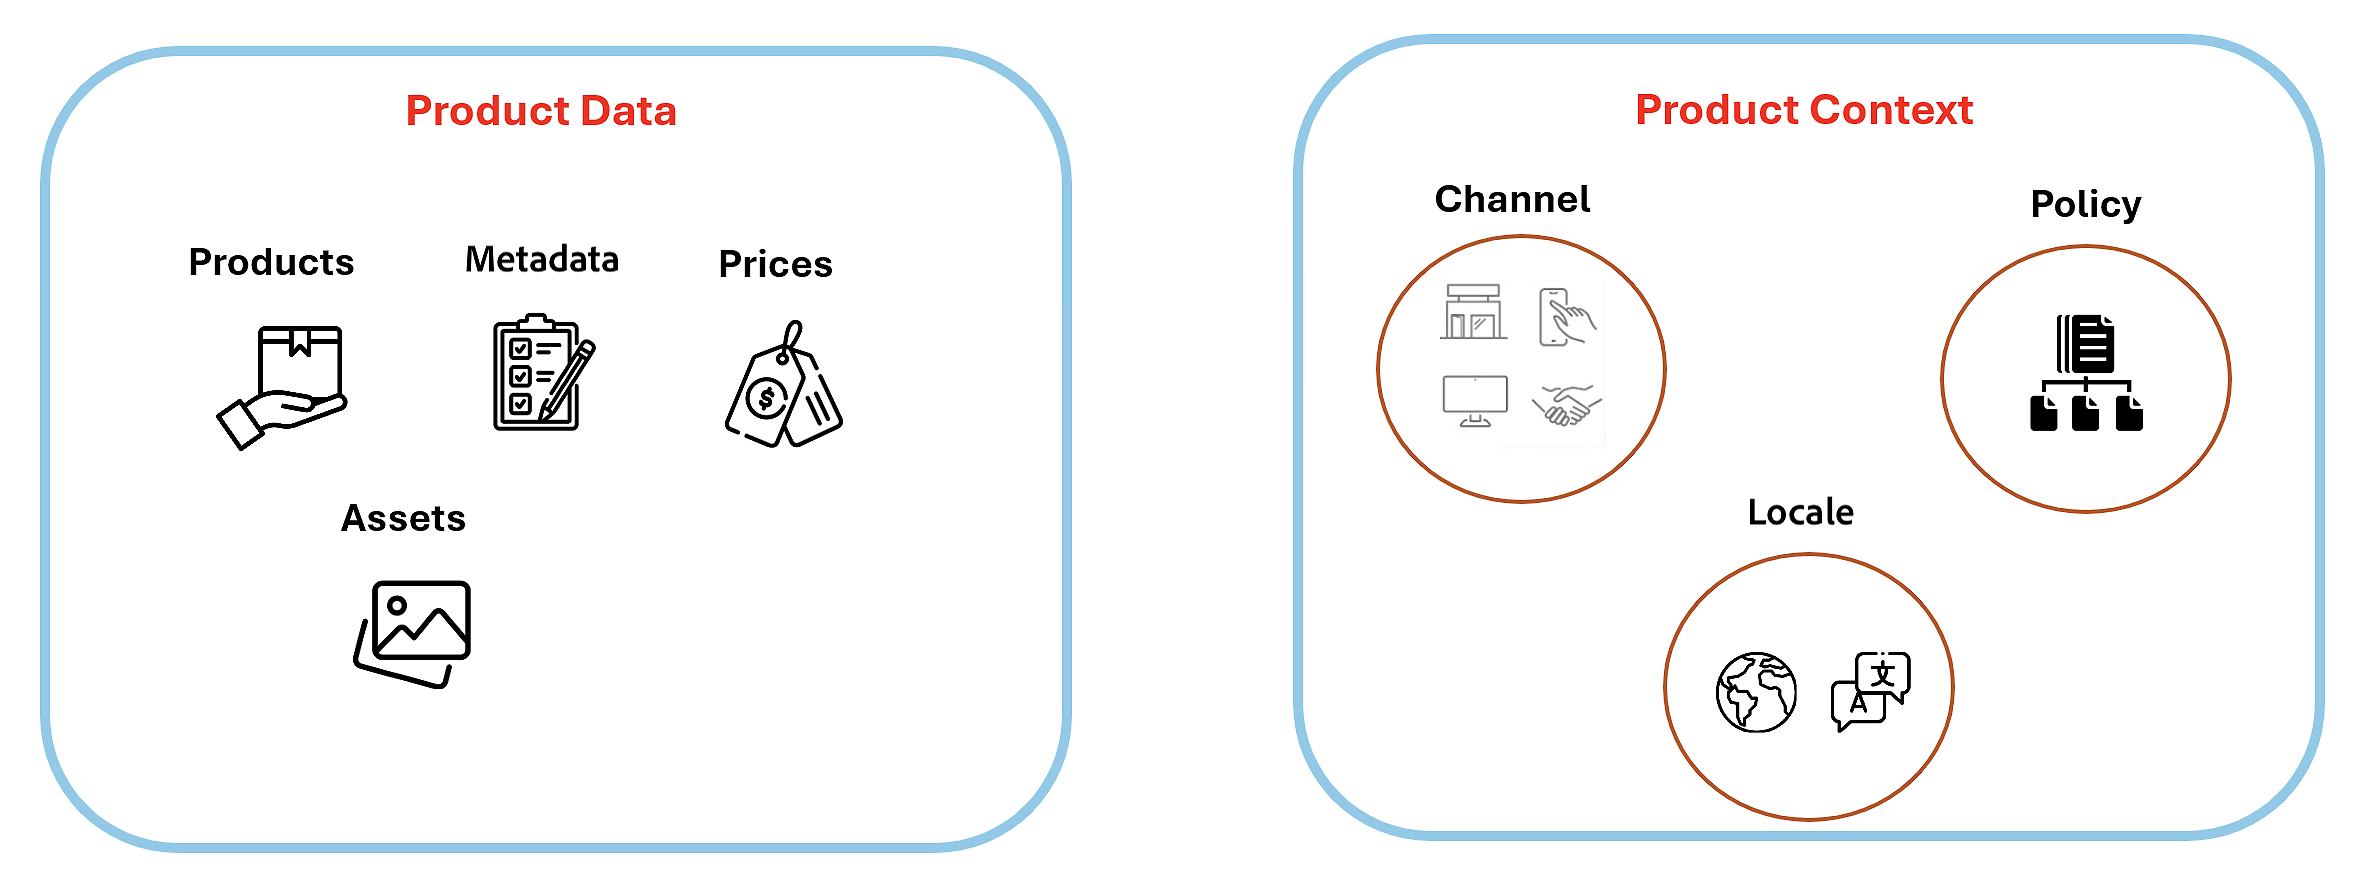
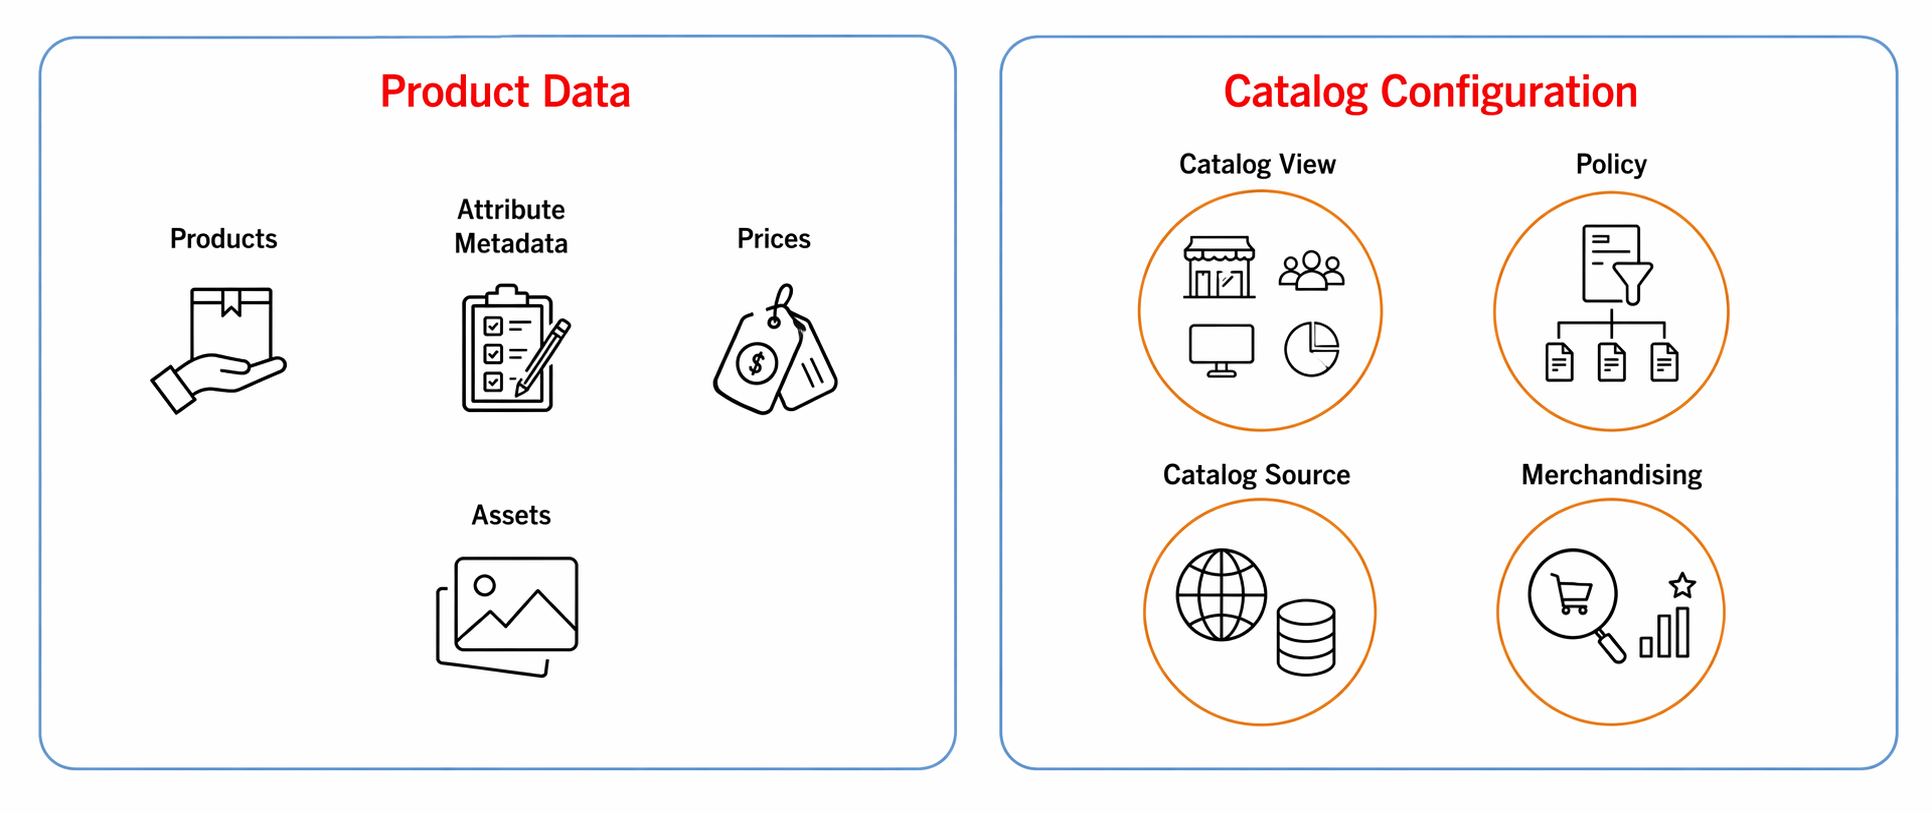
Update merchandising services components with current concepts

diff --git a/src/pages/optimizer/index.md b/src/pages/optimizer/index.md
@@ -1,6 +1,6 @@
 ---
 title: Merchandising Services Developer Guide
-description: Use the Merchandising Services powered by Channels and Polices to implement large, complex catalogs and develop highly performant storefront experiences.
+description: Use the Merchandising Services powered by Catalog Views and Polices to implement large, complex catalogs and develop highly performant storefront experiences.
 keywords:
   - GraphQL
   - REST
@@ -17,17 +17,25 @@ keywords:
 
 # Merchandising Services Developer Guide
 
-This guide provides API reference and usage information for developers and commerce site administrators involved in storefront development, maintenance, and operations.
+<InlineAlert variant="info" slots="text"/>
 
-Developers can use Adobe Commerce Optimizer Merchandising Services to implement large, complex catalogs, and develop highly performant storefront experiences. Merchandising Services provides a data model that separates product data from product context, allowing businesses to compose custom catalogs for different business models, such as B2B, B2C, and D2C and to manage the catalogs in a way that aligns with their go-to-market strategies.
+This guide provides API reference and usage information for Commerce customers using Adobe Commerce Optimizer. If you are using Adobe Commerce storefront services without Adobe Commerce Optimizer, see the [Adobe Storefront Services GraphQL](https://developer.adobe.com/commerce/webapi/graphql/schema/storefront-services/) documentation.
+
+This guide focuses on the API components of Adobe Commerce Optimizer Merchandising Services. It provides endpoint, authentication, and API reference information for developers who need to ingest catalog data, connect storefront applications, and retrieve storefront-ready catalog data. It also introduces the Commerce Optimizer Studio concepts that shape API output, such as catalog views, policies, merchandising rules, and recommendations.
+
+Developers can use Commerce Optimizer Merchandising Services to implement large, complex catalogs and build highly performant storefront experiences. Merchandising Services provides a data model that separates product data from product context, allowing businesses to compose custom catalogs for different business models, such as B2B, B2C, and D2C and manage the catalogs in ways that align with their go-to-market strategies.
 
 ![Merchandising Services product data and context](../images/merchandising/merchandising-svcs-parts.png)
 
-- **Product data** provides the details about the products to be sold-sku, attributes, metadata, and assets data, and prices for each item.
+- **Product data** includes the details about the products to be sold-SKUs, products, product and category metadata, assets, and pricing data.
 
-- **Product context** defines the business context for the products including catalog views, data access policies for catalog syndication, and catalog source (`locale`).
+- **Catalog configuration** determines how ingested catalog data is exposed for specific business contexts. After data is ingested and catalog sources are established, admins use Commerce Optimizer Studio to configure catalog views and policies that control which products and prices are delivered for specific channels, locales, and audiences. Catalog views and policies are managed in Adobe Commerce Optimizer Studio.
 
-Developers can use these components together to compose and deliver custom catalogs quickly, without duplicating or refactoring the base catalog data.
+Adobe Commerce Optimizer can expose this catalog model to Adobe Commerce Storefront on Edge Delivery Services or to custom headless storefronts. In both cases, storefront applications use the read-only Merchandising API to retrieve the catalog data defined by ingested product data and the catalog view and policy configuration created in Commerce Optimizer Studio.
+
+In addition to catalog modeling and delivery, Adobe Commerce Optimizer lets teams configure merchandising rules to influence product visibility and ranking in search results, category pages, and default product listings, and create product recommendations that use Adobe AI and aggregated storefront behavior to deliver personalized product suggestions.
+
+Developers use these components together to compose and deliver tailored storefront experiences quickly, without duplicating base catalog data.
 
 <InlineAlert variant="info" slots="text"/>
 
@@ -35,14 +43,30 @@ For additional architecture and implementation details, see the [Adobe Commerce 
 
 ## Resources
 
-Adobe Commerce Optimizer Merchandising Services provides the following APIs:
+Adobe Commerce Optimizer Merchandising Services provides the following APIs and configuration tools:
 
-**[Data Ingestion API](data-ingestion/index.md)**—REST API to add and manage product and pricing data for merchandising across multiple business channels and locales. Data includes products, product attribute metadata, price books, and prices. The API expects data in JSON format, which can be added to the Merchandising services data pipeline directly using the API or ingested from third-party systems.
+* **[Data Ingestion API](data-ingestion/index.md)** — REST API to add and manage product and pricing data for merchandising across multiple business channels and locales. Data includes attribute metadata, categories, products, price books, prices, and product layers. The API expects data in JSON format, which can be added to the Merchandising services data pipeline directly using the API or ingested from third-party systems. Ingested data establishes the catalog sources and attribute behavior used by storefront and merchandising experiences.
 
-**Catalog Views and Policies**—From the UI, you can create catalog views that represent distribution channels for product sales, catalog source (locales), and policies to set up and deliver custom, composable catalogs with minimal development effort. For details, see the [Adobe Commerce Optimizer Guide](https://experienceleague.adobe.com/en/docs/commerce/optimizer/overview).
+ <InlineAlert variant="info" slots="text"/>
 
-**[Merchandising API](merchandising-services/index.md)**—GraphQL API to access rich view-model (read-only) catalog data to build product-related storefront experiences. The Merchandising API is designed to be used by frontend applications to access catalog data.
+ If you are using the [Adobe Commerce Optimizer Connector](https://experienceleague.adobe.com/en/docs/commerce/aco-optimizer-connector/overview), data is ingested directly from the connected Adobe Commerce environment rather than through the Data Ingestion API.
 
-*Example Integration*: Use the Merchandising API to query catalog data by sending a GraphQL query to filter products by attributes, such as category or brand, or retrieve localized pricing for a specific region. For example, a query can be sent to fetch products within a specific category and display their localized prices on a storefront page, enabling tailored and region-specific storefront experiences.
+* **Catalog Views and Policies** — After catalog data is ingested into Adobe Commerce Optimizer, admins use Commerce Optimizer Studio to configure catalog views and policies. Ingested data establishes the available catalog sources, product attributes, and pricing inputs. Catalog views define how a shared catalog is exposed for specific channels, locales, and audiences. Policies apply attribute-based filters to control which products are included in each view. These configurations are managed in Commerce Optimizer Studio, not through the Merchandising Services APIs. For details, see the [Storefront and Catalog Administrator End-to-End Use Case](https://experienceleague.adobe.com/en/docs/commerce/optimizer/use-case/admin-use-case).
 
-*Example Integration*: Use the Merchandising API to query catalog data by sending a GraphQL query to retrieve product details, including name, price, and availability, for rendering on a storefront page. This enables dynamic and personalized storefront experiences.
+* **Merchandising configuration** - Use Commerce Optimizer Studio to configure product discovery and recommendations for your storefront. From the [Merchandising menu](https://experienceleague.adobe.com/en/docs/commerce/optimizer/merchandising/overview), you can manage merchandising rules, facets, synonyms, and recommendation units. These configurations are managed in Adobe Commerce Optimizer Studio and work with catalog views and policies to shape search behavior, product ranking, and personalized recommendations.
+
+* **Storefront Integration** - Connect an Edge Delivery Services or headless storefront to the configured instance
+
+  Adobe Commerce Optimizer supports both Adobe Commerce Storefront on Edge Delivery Services and custom headless storefronts. Storefront applications connect to the appropriate tenant, catalog view, and Merchandising API endpoints to retrieve storefront-ready catalog data.
+
+* **[Merchandising API](merchandising-services/index.md)** — Read-only GraphQL API to access rich view-model catalog data for storefront experiences
+
+   Developer use the Merchandising API to:
+
+  * power Adobe Commerce Storefront on Edge Delivery Services and storefront drop-ins
+  * connect custom headless storefronts
+  * expose catalog data to third-party services and integration layers.
+
+  The data returned by the API reflects the ingested catalog data and the catalog views, policies, and merchandising configuration defined in Commerce Optimizer Studio.
+
+## Typical Merchandising Services workflow
